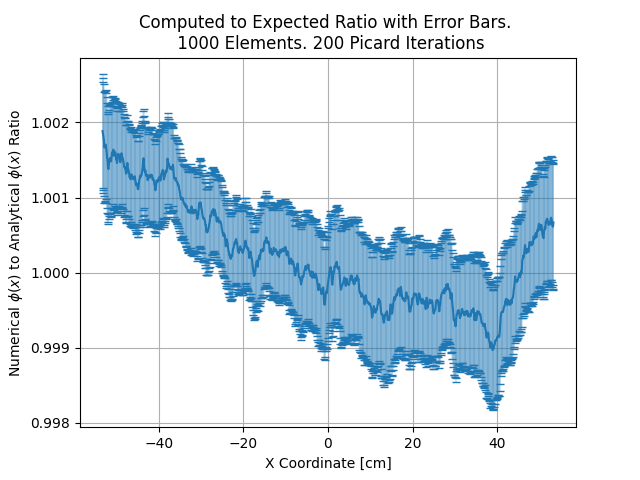
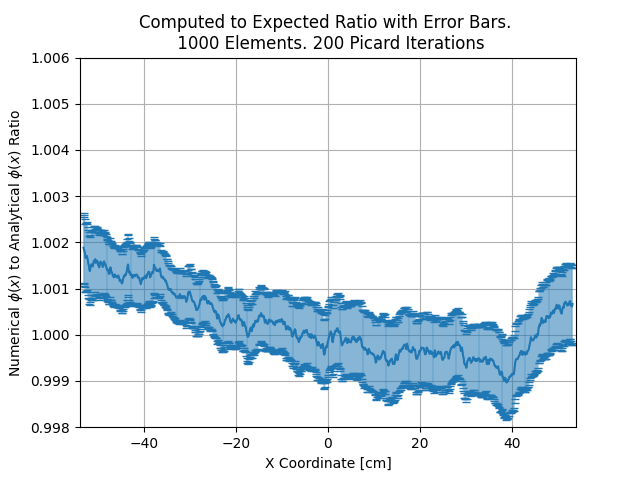
put all figures on same axes

diff --git a/simulations/visualization/no_ss_no_mesh_template/visualize_results.py b/simulations/visualization/no_ss_no_mesh_template/visualize_results.py
@@ -192,16 +192,14 @@ plt.grid()
 plt.savefig("flux_num_to_analy_ratios.png")
 plt.clf()
 
-print( [np.mean(sigma_r[n]) for n in n_elems] )
-
 # plot individual C/E with error bars
 for n in n_elems:
     plt.plot(xx[n],ratios_flux_num_to_analy[n],label=f"{n} x-elem")
     plt.errorbar(xx[n],ratios_flux_num_to_analy[n],yerr=sigma_r[n],marker = '|',fmt='none',elinewidth=0.25,capsize=3,capthick=1)
     plt.xlabel("X Coordinate [cm]")
     plt.ylabel(r"Numerical $\phi(x)$ to Analytical $\phi(x)$ Ratio")
+    plt.axis([-54, 54, 0.998, 1.006])
     plt.title(f"Computed to Expected Ratio with Error Bars. \n {n} Elements. 200 Picard Iterations")
-    # plt.legend()
     plt.grid()
     plt.savefig(f"flux_num_to_analy_ratio_w_error_bars_{n}_elem.png")
     plt.clf()
